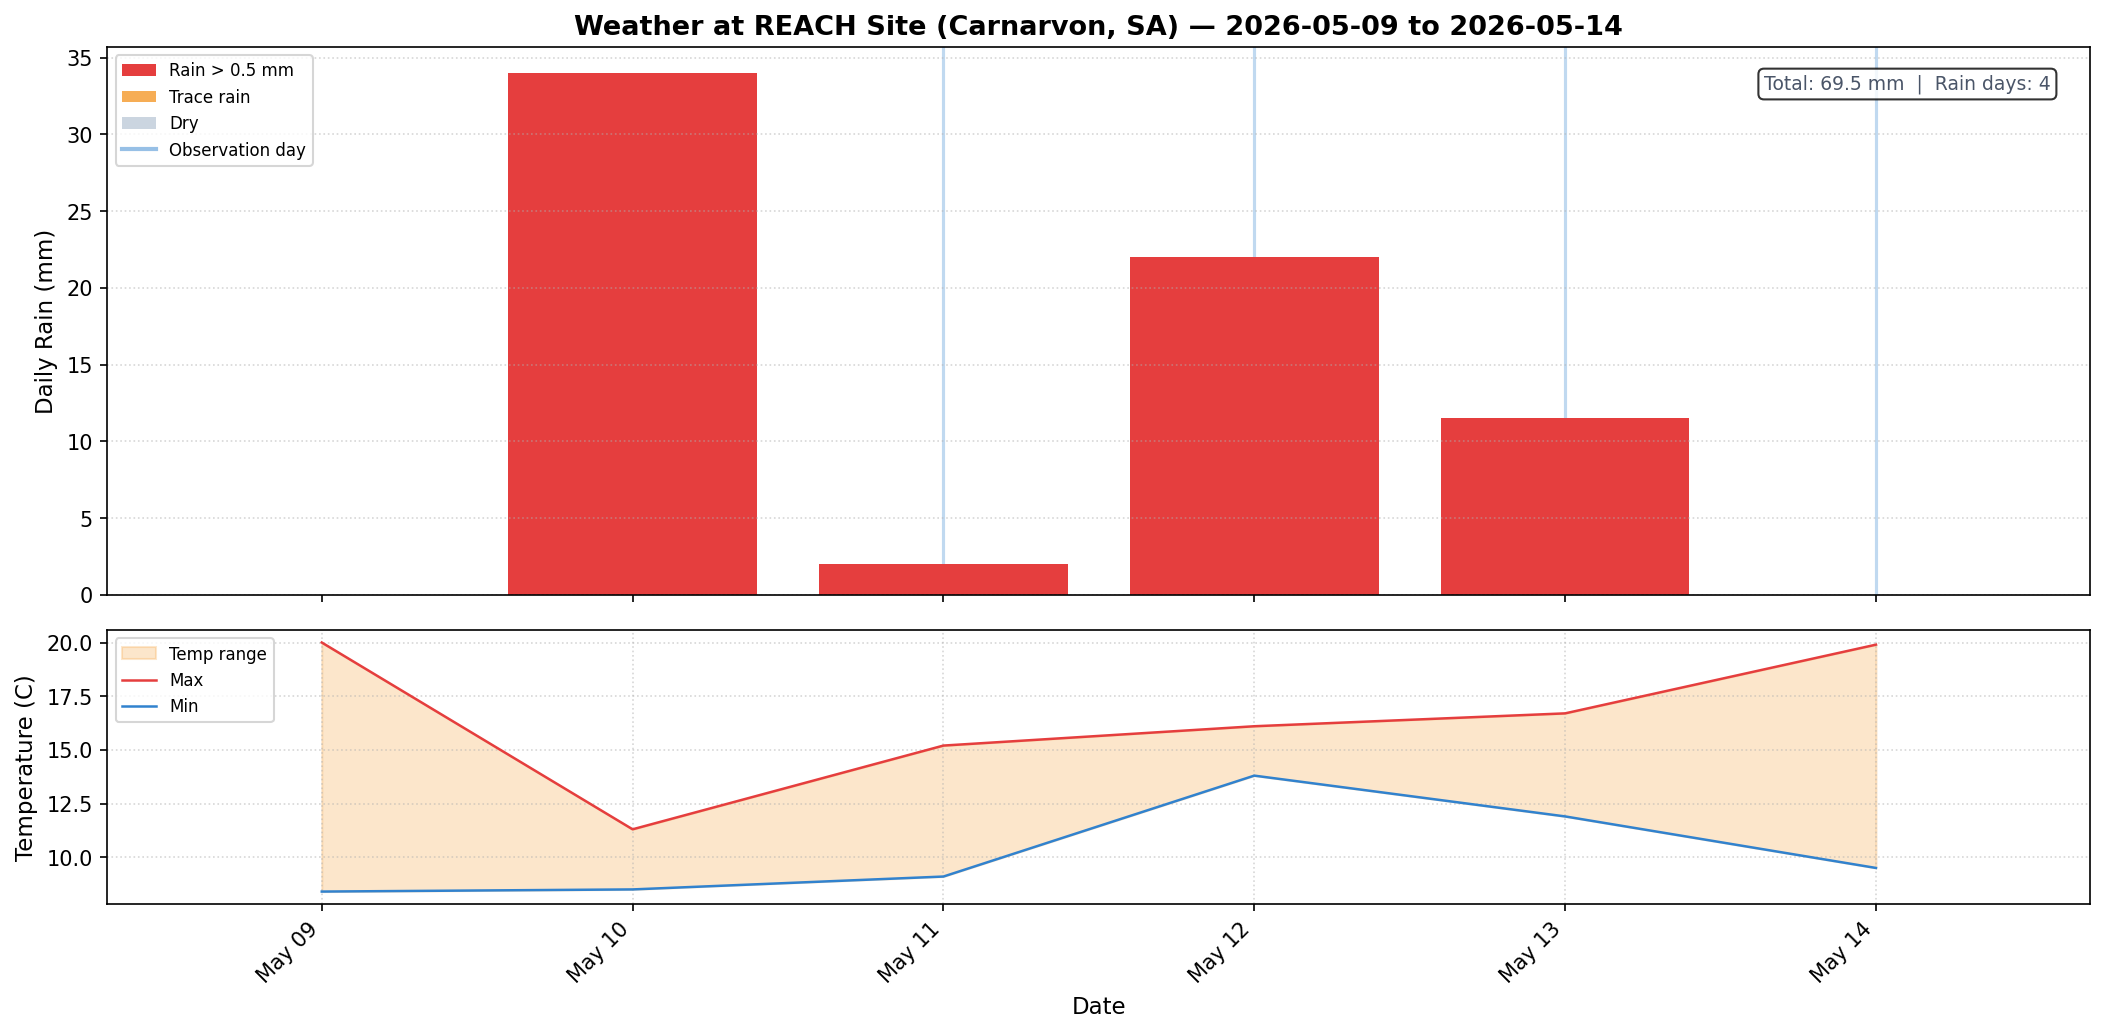
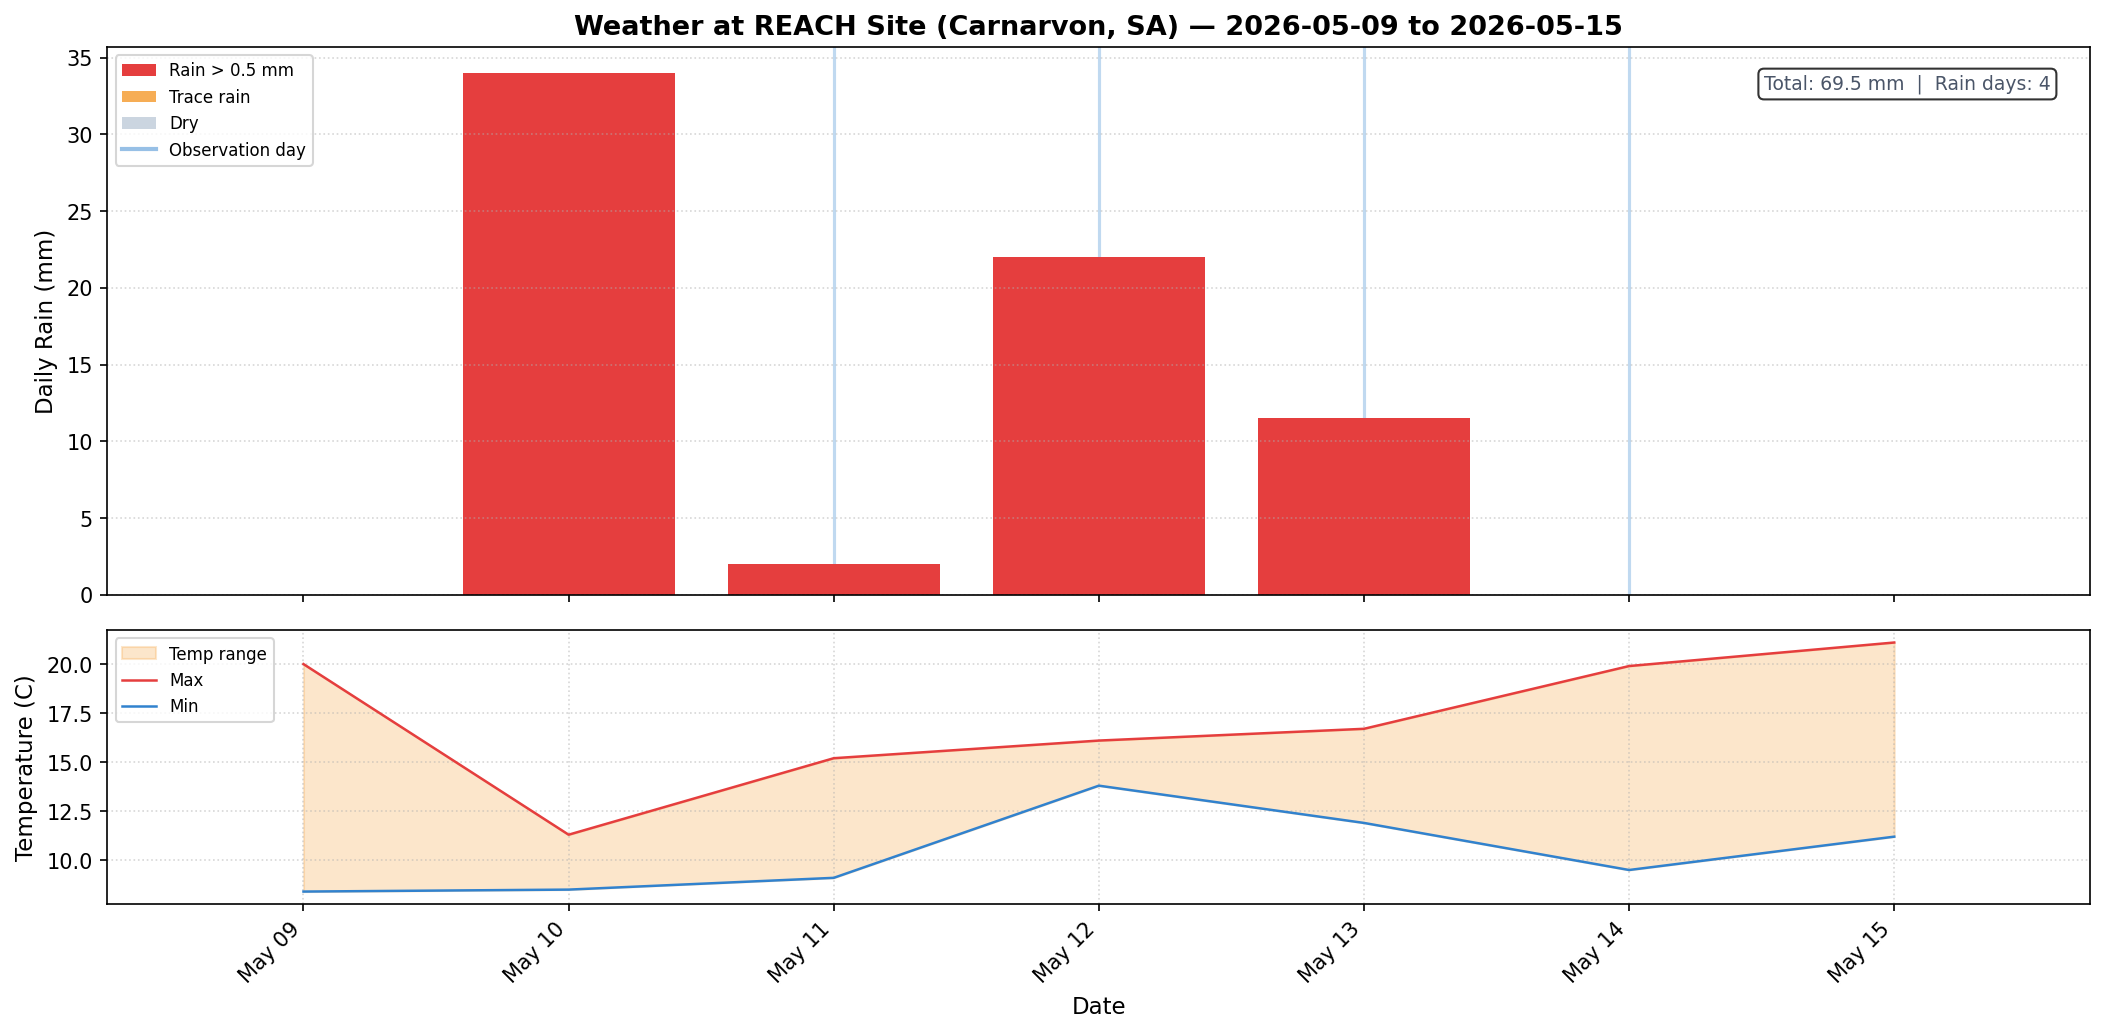
Daily dashboard update 2026-05-16 06:46 UTC

diff --git a/2026_05_14/index.html b/2026_05_14/index.html
@@ -206,7 +206,7 @@
 
   <div class="header">
     <h1>REACH Instrument Monitoring Dashboard</h1>
-    <div class="update-time">Last updated: 2026-05-15 08:41 UTC</div>
+    <div class="update-time">Last updated: 2026-05-16 06:46 UTC</div>
 
     <div class="date-nav">
       <label>Viewing date:</label>
@@ -238,7 +238,7 @@
     <strong>Data Fetch Warnings:</strong>
     <ul>
       
-      <li>Failed to fetch 2026_05_10</li>
+      <li>Instrument PC (reachtelescope.cloud:10000) unreachable</li>
       
     </ul>
   </div>
@@ -246,7 +246,7 @@
 
   <div class="section">
     <h2>Site Weather (Carnarvon, SA)</h2>
-    <div class="dates-label">Rainfall and temperature — 6 days shown, 69.5 mm total rain (Open-Meteo)</div>
+    <div class="dates-label">Rainfall and temperature — 7 days shown, 69.5 mm total rain (Open-Meteo)</div>
     <img class="plot-img" src="plots/weather.png"
          alt="Site Weather" loading="lazy">
   </div>
